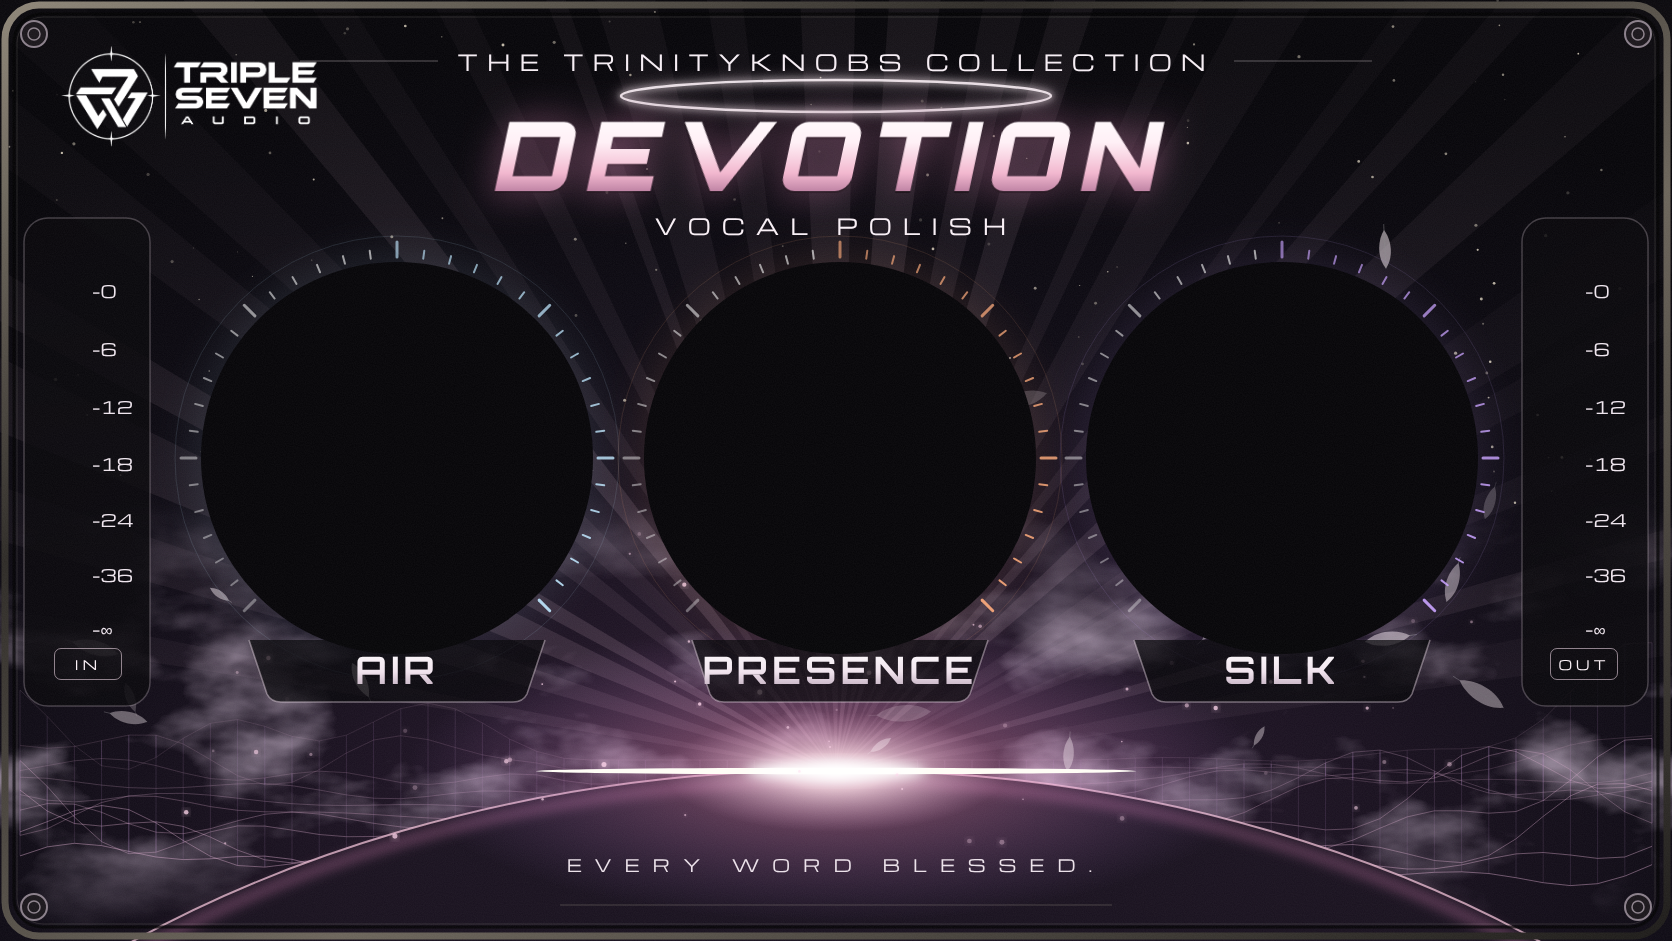
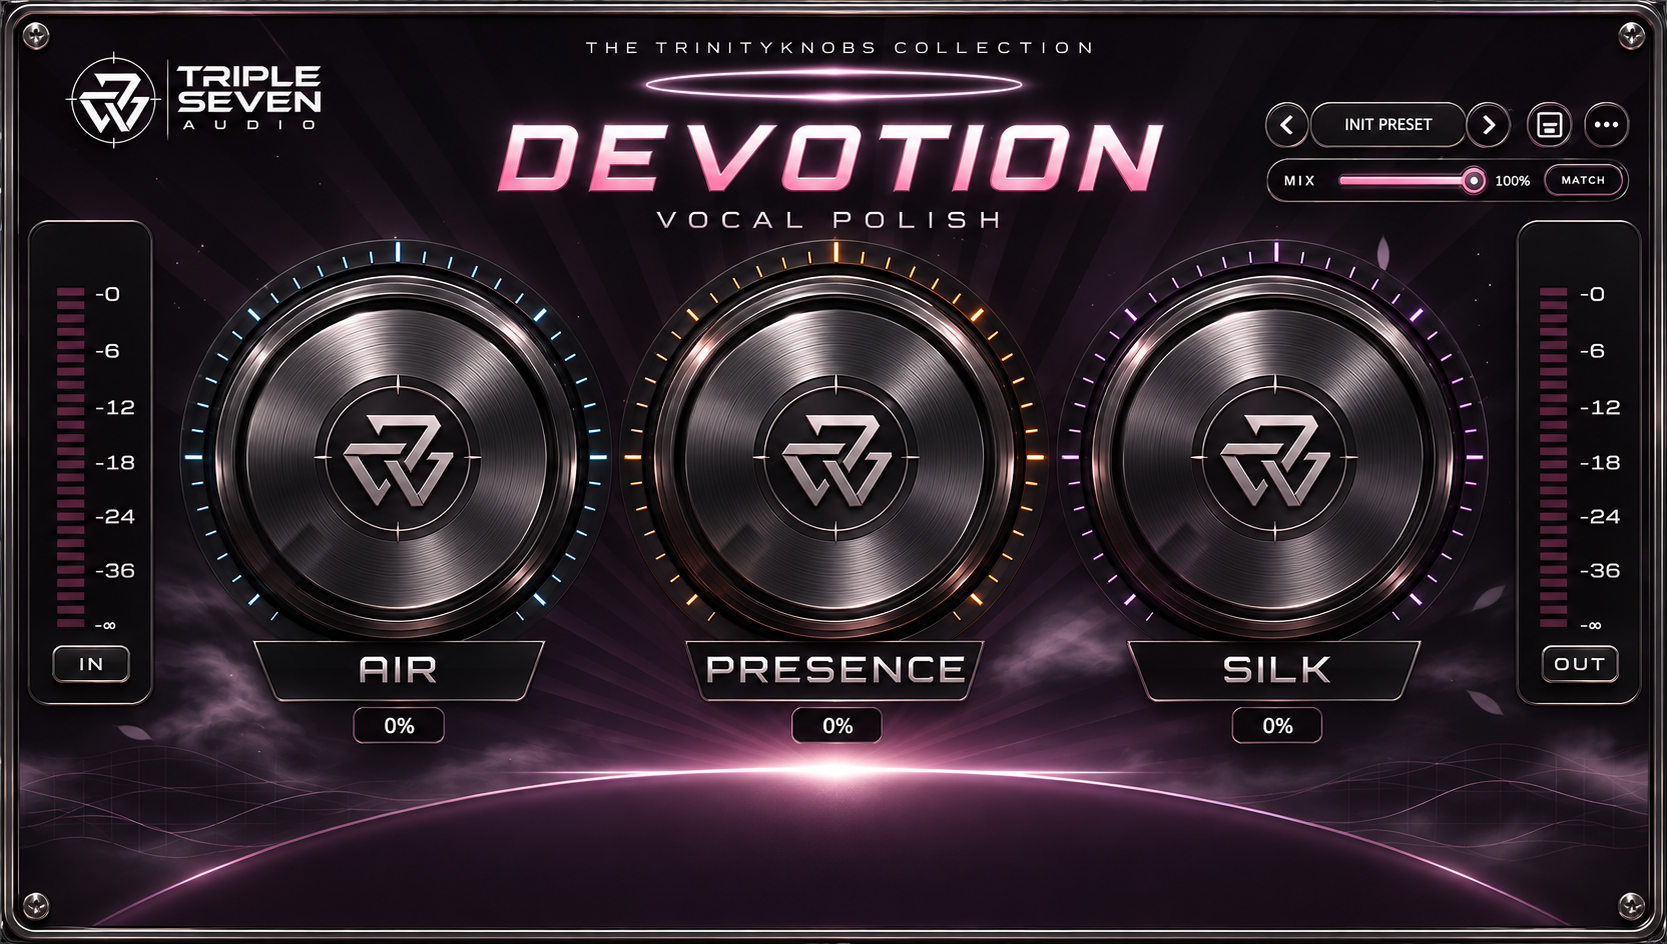
DEVOTION 1.1.0: new UI from Ian's mockup
- New panel artwork (1667x944); baked knob pointers removed by refilling from the
  knob's own concentric texture, so the plugin draws live pointers and value arcs.
- Preset bar, MIX/MATCH, % badges, meters and readouts aligned to the new layout.
- COMP and DE-ESS readouts get a dark backing so they stay legible over the horizon glow.
- Preview test renders a real preset.

Claude-Session: https://claude.ai/code/session_0119y7QfPjzg7v2tgQQm6Nj5

diff --git a/Source/Plugin.cpp b/Source/Plugin.cpp
@@ -174,27 +174,9 @@ private:
     std::atomic<float>* match{};
 };
 
-Image loadLogo()
-{
-    auto original = ImageFileFormat::loadFrom(BinaryData::mark_png, BinaryData::mark_pngSize);
-    if (!original.isValid())
-        return {};
-    original = original.rescaled(320, roundToInt(320.0f * original.getHeight() / original.getWidth()));
-    Image logo(Image::ARGB, original.getWidth(), original.getHeight(), true);
-    for (int y = 0; y < logo.getHeight(); ++y)
-        for (int x = 0; x < logo.getWidth(); ++x)
-        {
-            const auto mask = original.getPixelAt(x, y).getBrightness();
-            const auto metal = Colour(0xfffff2f8).interpolatedWith(Colour(0xff7a5f74), 0.15f + 0.55f * y / logo.getHeight());
-            logo.setPixelAt(x, y, metal.withAlpha(jlimit(0.0f, 0.86f, (mask - 0.10f) * 0.96f)));
-        }
-    return logo;
-}
-
 class KnobLook final : public LookAndFeel_V4
 {
 public:
-    KnobLook() : logo(loadLogo()) {}
 
     void drawButtonText(Graphics& g, TextButton& button, bool, bool) override
     {
@@ -247,10 +229,13 @@ public:
             g.drawRoundedRectangle(bounds, radius, 1.2f);
             return;
         }
-        g.setColour(Colour(0xff140d14).brighter(down ? 0.25f : (over ? 0.12f : 0.0f)));
-        g.fillRoundedRectangle(bounds, jmin(radius, 12.0f));
-        g.setColour(Colour(0x66f0d8e8));
-        g.drawRoundedRectangle(bounds, jmin(radius, 12.0f), 1.2f);
+        const auto text = button.getButtonText();
+        const auto corner = text == "SAVE" ? 11.0f : radius;
+        g.setGradientFill(ColourGradient(Colour(0xff201820).brighter(down ? 0.25f : (over ? 0.12f : 0.0f)), 0, bounds.getY(),
+                                         Colour(0xff0b080b), 0, bounds.getBottom(), false));
+        g.fillRoundedRectangle(bounds, corner);
+        g.setColour(Colour(0xc8c9a3b6));
+        g.drawRoundedRectangle(bounds.reduced(0.5f), corner, 1.4f);
     }
 
     int getSliderThumbRadius(Slider& slider) override
@@ -300,59 +285,32 @@ public:
     void drawRotarySlider(Graphics& g, int x, int y, int w, int h, float position,
                           float start, float end, Slider& slider) override
     {
-        const auto scale = static_cast<float>(jmin(w, h)) / 390.0f;
+        // Bounds are 420 x 420 design units centred on the knob drawn in the artwork.
+        const auto scale = static_cast<float>(jmin(w, h)) / 420.0f;
         Graphics::ScopedSaveState save(g);
-        g.addTransform(AffineTransform::scale(scale).translated(x + (w - 390 * scale) * 0.5f,
-                                                                 y + (h - 390 * scale) * 0.5f));
+        g.addTransform(AffineTransform::scale(scale).translated(x + (w - 420 * scale) * 0.5f,
+                                                                 y + (h - 420 * scale) * 0.5f));
         const auto accent = slider.findColour(Slider::rotarySliderFillColourId);
-        const Point<float> c{195, 195};
-        const auto disc = [c](float r) { return Rectangle<float>(2 * r, 2 * r).withCentre(c); };
-        const auto fill = [&](float r, Colour top, Colour bottom) {
-            g.setGradientFill(ColourGradient(top, 131, 195 - r, bottom, 253, 195 + r, false));
-            g.fillEllipse(disc(r));
-        };
-        fill(190, Colour(0xff1d151c), Colour(0xff09070a));
-        g.setColour(accent.withAlpha(0.26f));
-        g.drawEllipse(disc(184), 2);
-        fill(173, Colour(0xff6b5966), Colour(0xff0b090b));
-        fill(162, Colour(0xff060407), Colour(0xff181117));
-        ColourGradient steel(Colour(0xffd8c4d2), 147, 50, Colour(0xff140f13), 259, 335, false);
-        steel.addColour(0.17, Colour(0xff5c4b58));
-        steel.addColour(0.45, Colour(0xff181117));
-        steel.addColour(0.72, Colour(0xff3e3140));
-        g.setGradientFill(steel);
-        g.fillEllipse(disc(147));
-        g.setColour(Colour(0xff937c8e));
-        g.drawEllipse(disc(147), 1.4f);
-        for (int r = 77; r < 145; r += 2)
-        {
-            g.setColour(Colours::white.withAlpha(0.018f + (r % 7) * 0.003f));
-            g.drawEllipse(disc(static_cast<float>(r)), 0.7f);
-        }
-        g.setColour(Colours::black.withAlpha(0.21f));
-        g.fillEllipse(disc(87));
-        g.setOpacity(1.0f);
-        if (logo.isValid())
-            g.drawImageWithin(logo, 95, 95, 200, 200, RectanglePlacement::centred);
+        const Point<float> c{210, 210};
         const auto angle = start + position * (end - start);
         if (position > 0.0f)
         {
             Path track;
-            track.addCentredArc(c.x, c.y, 176, 176, 0, start, angle, true);
-            g.setColour(accent.withAlpha(0.23f));
-            g.strokePath(track, PathStrokeType(17, PathStrokeType::curved, PathStrokeType::rounded));
+            track.addCentredArc(c.x, c.y, 192, 192, 0, start, angle, true);
+            g.setColour(accent.withAlpha(0.22f));
+            g.strokePath(track, PathStrokeType(13, PathStrokeType::curved, PathStrokeType::rounded));
             g.setColour(accent);
-            g.strokePath(track, PathStrokeType(5, PathStrokeType::curved, PathStrokeType::rounded));
+            g.strokePath(track, PathStrokeType(4, PathStrokeType::curved, PathStrokeType::rounded));
         }
-        const auto inner = c.getPointOnCircumference(130.0f, angle);
-        const auto outer = c.getPointOnCircumference(168.0f, angle);
-        g.setColour(accent.withAlpha(0.45f));
-        g.drawLine({inner, outer}, 15);
-        g.setColour(accent.interpolatedWith(Colours::white, 0.78f));
-        g.drawLine({inner, outer}, 6);
+        const auto inner = c.getPointOnCircumference(122.0f, angle);
+        const auto outer = c.getPointOnCircumference(166.0f, angle);
+        g.setColour(accent.withAlpha(0.5f));
+        g.drawLine({inner, outer}, 13);
+        g.setColour(accent);
+        g.drawLine({inner, outer}, 9);
+        g.setColour(Colours::white.withAlpha(0.95f));
+        g.drawLine({inner, outer}, 4.5f);
     }
-private:
-    Image logo;
 };
 
 class Editor final : public AudioProcessorEditor, private Timer
@@ -419,9 +377,9 @@ public:
         save.onClick = [this] { presetFile(true); };
         menu.onClick = [this] { showOptions(); };
         setResizable(true, true);
-        getConstrainer()->setFixedAspectRatio(1672.0 / 941.0);
-        setResizeLimits(760, 428, 1672, 941);
-        setSize(1003, 565);
+        getConstrainer()->setFixedAspectRatio(static_cast<double>(designWidth) / designHeight);
+        setResizeLimits(760, 430, 1667, 944);
+        setSize(1000, 566);
         updateDisplay();
         startTimerHz(30);
     }
@@ -440,14 +398,14 @@ public:
     void resized() override
     {
         for (size_t i = 0; i < knobs.size(); ++i)
-            knobs[i].setBounds(region(centres[i] - 195, 263, 390, 390));
-        prev.setBounds(region(1271, 98, 42, 45));
-        preset.setBounds(region(1313, 98, 159, 45));
-        next.setBounds(region(1472, 98, 42, 45));
-        save.setBounds(region(1532, 98, 45, 45));
-        menu.setBounds(region(1588, 98, 45, 45));
-        mixSlider.setBounds(region(1330, 156, 160, 44));
-        matchButton.setBounds(region(1548, 162, 78, 32));
+            knobs[i].setBounds(region(centres[i] - 210, knobY - 210, 420, 420));
+        prev.setBounds(region(1266, 102, 44, 44));
+        preset.setBounds(region(1311, 102, 155, 44));
+        next.setBounds(region(1466, 102, 44, 44));
+        save.setBounds(region(1527, 102, 46, 44));
+        menu.setBounds(region(1585, 102, 44, 44));
+        mixSlider.setBounds(region(1333, 158, 152, 43));
+        matchButton.setBounds(region(1544, 164, 79, 31));
     }
 
     void paint(Graphics& g) override
@@ -456,50 +414,54 @@ public:
         g.setImageResamplingQuality(Graphics::highResamplingQuality);
         if (artwork.isValid())
             g.drawImage(artwork, getLocalBounds().toFloat());
-        g.addTransform(AffineTransform::scale(getWidth() / 1672.0f, getHeight() / 941.0f));
+        g.addTransform(AffineTransform::scale(getWidth() / static_cast<float>(designWidth), getHeight() / static_cast<float>(designHeight)));
 
-        const Rectangle<float> mixPill(1271, 156, 362, 44);
-        g.setColour(Colour(0xd00c080b));
-        g.fillRoundedRectangle(mixPill, 22);
-        g.setColour(Colour(0x66f0d8e8));
-        g.drawRoundedRectangle(mixPill, 22, 1.2f);
+        const Rectangle<float> mixPill(1267, 158, 362, 43);
+        g.setColour(Colour(0xff0e0a0d));
+        g.fillRoundedRectangle(mixPill, 21.5f);
+        g.setColour(Colour(0xc8c9a3b6));
+        g.drawRoundedRectangle(mixPill.reduced(0.5f), 21.5f, 1.4f);
         g.setColour(Colour(0xfff7eef4));
-        g.setFont(FontOptions(16.0f).withKerningFactor(0.18f));
-        g.drawText("MIX", Rectangle<float>(1288, 156, 44, 44), Justification::centredLeft);
-        g.setFont(FontOptions(15.0f).withStyle("Bold"));
-        g.drawText(String(roundToInt(mixSlider.getValue())) + "%", Rectangle<float>(1490, 156, 52, 44),
+        g.setFont(FontOptions(15.0f).withKerningFactor(0.3f));
+        g.drawText("MIX", Rectangle<float>(1285, 158, 46, 43), Justification::centredLeft);
+        g.setFont(FontOptions(14.0f).withStyle("Bold"));
+        g.drawText(String(roundToInt(mixSlider.getValue())) + "%", Rectangle<float>(1488, 158, 54, 43),
                    Justification::centred);
 
-        meter(g, 53, in);
-        meter(g, 1544, out);
+        meter(g, 57, in);
+        meter(g, 1540, out);
         g.setFont(FontOptions(23.0f).withStyle("Bold"));
         for (size_t i = 0; i < knobs.size(); ++i)
         {
-            const Rectangle<float> badge(static_cast<float>(centres[i] - 42), 708, 84, 32);
-            g.setColour(Colour(0xec100a0e));
-            g.fillRoundedRectangle(badge, 7);
-            g.setColour(Colour(0xffd0aec4));
-            g.drawRoundedRectangle(badge, 7, 1);
+            const Rectangle<float> badge(static_cast<float>(badgeCentres[i] - 45), 707, 90, 36);
+            g.setColour(Colour(0xff0e0a0d));
+            g.fillRoundedRectangle(badge, 6);
+            g.setColour(Colour(0xd0c9a3b6));
+            g.drawRoundedRectangle(badge.reduced(0.5f), 6, 1.3f);
             g.setColour(Colour(0xfffcf2f8));
             g.drawText(String(roundToInt(knobs[i].getValue())) + "%", badge, Justification::centred);
         }
         const auto readout = [&](size_t knob, const String& label, float amount, Colour accent) {
             if (knobs[knob].getValue() <= 0.0)
                 return;
-            g.setFont(FontOptions(15.0f).withKerningFactor(0.12f));
-            g.setColour(amount > 0.05f ? accent.interpolatedWith(Colours::white, 0.35f) : Colour(0xa0f7eef4));
-            g.drawText(label + "  -" + String(amount, 1) + " dB",
-                       Rectangle<float>(static_cast<float>(centres[knob] - 100), 744, 200, 22), Justification::centred);
+            const Rectangle<float> pill(static_cast<float>(badgeCentres[knob] - 72), 748, 144, 22);
+            g.setColour(Colour(0xd80d090c));
+            g.fillRoundedRectangle(pill, 11);
+            g.setColour(accent.withAlpha(0.45f));
+            g.drawRoundedRectangle(pill.reduced(0.5f), 11, 1.0f);
+            g.setFont(FontOptions(14.0f).withKerningFactor(0.12f));
+            g.setColour(amount > 0.05f ? accent.interpolatedWith(Colours::white, 0.35f) : Colour(0xd0f7eef4));
+            g.drawText(label + "  -" + String(amount, 1) + " dB", pill, Justification::centred);
         };
         readout(1, "COMP", compressionAmount, accentPresence);
         readout(2, "DE-ESS", gainReduction, accentSilk);
         if (processor.getBypassParameter()->getValue() >= 0.5f)
         {
             g.setColour(Colour(0xff180e14));
-            g.fillRoundedRectangle(761, 228, 150, 34, 6);
+            g.fillRoundedRectangle(758, 780, 150, 30, 6);
             g.setColour(Colour(0xffffd0e6));
-            g.setFont(FontOptions(23.0f).withStyle("Bold"));
-            g.drawText("BYPASSED", 761, 228, 150, 34, Justification::centred);
+            g.setFont(FontOptions(19.0f).withStyle("Bold"));
+            g.drawText("BYPASSED", 758, 780, 150, 30, Justification::centred);
         }
     }
 
@@ -507,7 +469,7 @@ private:
     Rectangle<int> region(int x, int y, int w, int h) const
     {
         return Rectangle<float>(x, y, w, h).transformedBy(
-            AffineTransform::scale(getWidth() / 1672.0f, getHeight() / 941.0f)).toNearestInt();
+            AffineTransform::scale(getWidth() / static_cast<float>(designWidth), getHeight() / static_cast<float>(designHeight))).toNearestInt();
     }
 
     static void meter(Graphics& g, float x, float peak)
@@ -515,13 +477,13 @@ private:
         constexpr std::array db{-72, -60, -50, -42, -36, -33, -30, -27, -24, -22, -21, -20,
                                 -18, -17, -15, -14, -12, -11, -10, -8, -7, -6, -4, -3, -1, 0};
         g.setColour(Colour(0xff110b0f));
-        g.fillRoundedRectangle(x - 3, 280, 34, 355, 4);
+        g.fillRoundedRectangle(x - 3, 283, 33, 349, 4);
         const auto level = Decibels::gainToDecibels(peak, -100.0f);
         for (size_t i = 0; i < db.size(); ++i)
         {
-            const auto lit = Colour(0xfffff0f7).interpolatedWith(Colour(0xffe48ac0), i / 25.0f);
-            g.setColour(level >= db[i] ? (i == db.size() - 1 ? Colour(0xffff6b8f) : lit) : Colour(0xff2a1d27));
-            g.fillRoundedRectangle(x, 624.0f - 13.55f * i, 28, 8.5f, 1.5f);
+            const auto lit = Colour(0xffffe4f1).interpolatedWith(Colour(0xffe2589c), 1.0f - i / 25.0f);
+            g.setColour(level >= db[i] ? (i == db.size() - 1 ? Colour(0xffff6b8f) : lit) : Colour(0xff4a2237));
+            g.fillRoundedRectangle(x, 619.0f - 13.24f * static_cast<float>(i), 27, 8, 1.5f);
         }
     }
 
@@ -624,7 +586,9 @@ private:
     const Image artwork;
     KnobLook look;
     TooltipWindow tooltips{this, 700};
-    static constexpr std::array centres{397, 840, 1282};
+    static constexpr int designWidth = 1667, designHeight = 944, knobY = 458;
+    static constexpr std::array centres{396, 834, 1272};
+    static constexpr std::array badgeCentres{399, 837, 1277};
     std::array<Slider, 3> knobs;
     std::array<std::unique_ptr<AudioProcessorValueTreeState::SliderAttachment>, 3> attachments;
     Slider mixSlider;

diff --git a/Tests/EditorPreview.cpp b/Tests/EditorPreview.cpp
@@ -8,6 +8,7 @@ int main(int argc, char** argv)
         return 1;
     const juce::ScopedJuceInitialiser_GUI gui;
     std::unique_ptr<juce::AudioProcessor> processor(createPluginFilter());
+    processor->setCurrentProgram(1); // show a real preset so the arcs and pointers are visible
     std::unique_ptr<juce::AudioProcessorEditor> editor(processor->createEditorIfNeeded());
     if (editor == nullptr)
         return 2;

diff --git a/INSTALL.md b/INSTALL.md
@@ -1,4 +1,4 @@
-# DEVOTION 1.0.0
+# DEVOTION 1.1.0
 
 **THE TRINITYKNOBS COLLECTION**  
 By **TRIPLE SEVEN AUDIO**  
@@ -7,7 +7,7 @@ Vocal polish
 ## What's in the download
 
 ```
-DEVOTION-1.0.0/
+DEVOTION-1.1.0/
 ├── INSTALL.md            ← this guide
 ├── macOS/
 │   ├── VST3/DEVOTION.vst3

diff --git a/BUILD.md b/BUILD.md
@@ -1,4 +1,4 @@
-# Build DEVOTION 1.0.0
+# Build DEVOTION 1.1.0
 
 DEVOTION is a JUCE 8.0.12 / C++17 audio effect. By default CMake fetches the pinned JUCE release with Git; pass `-DJUCE_DIR=/absolute/path/to/JUCE` to use an existing checkout.
 
